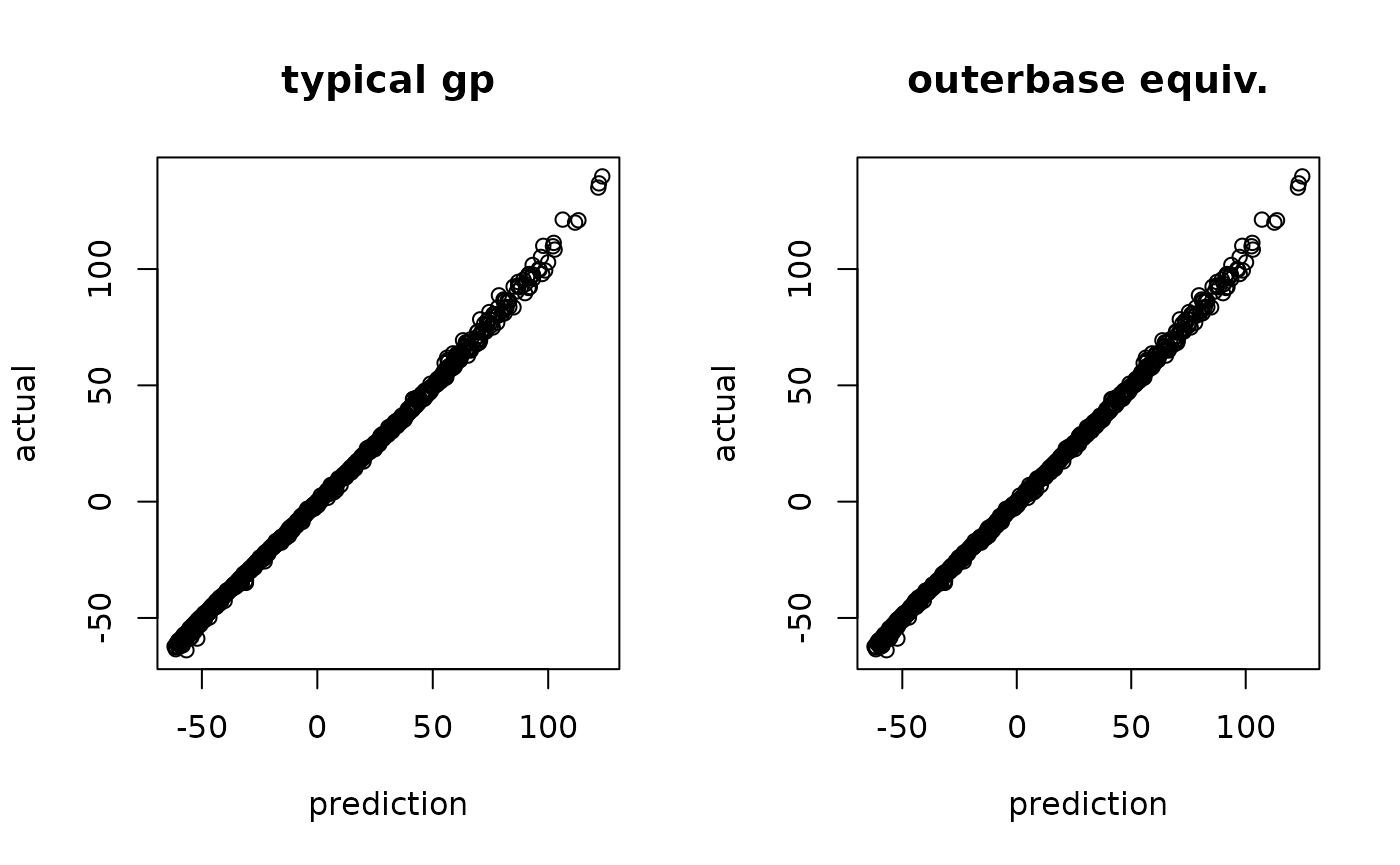
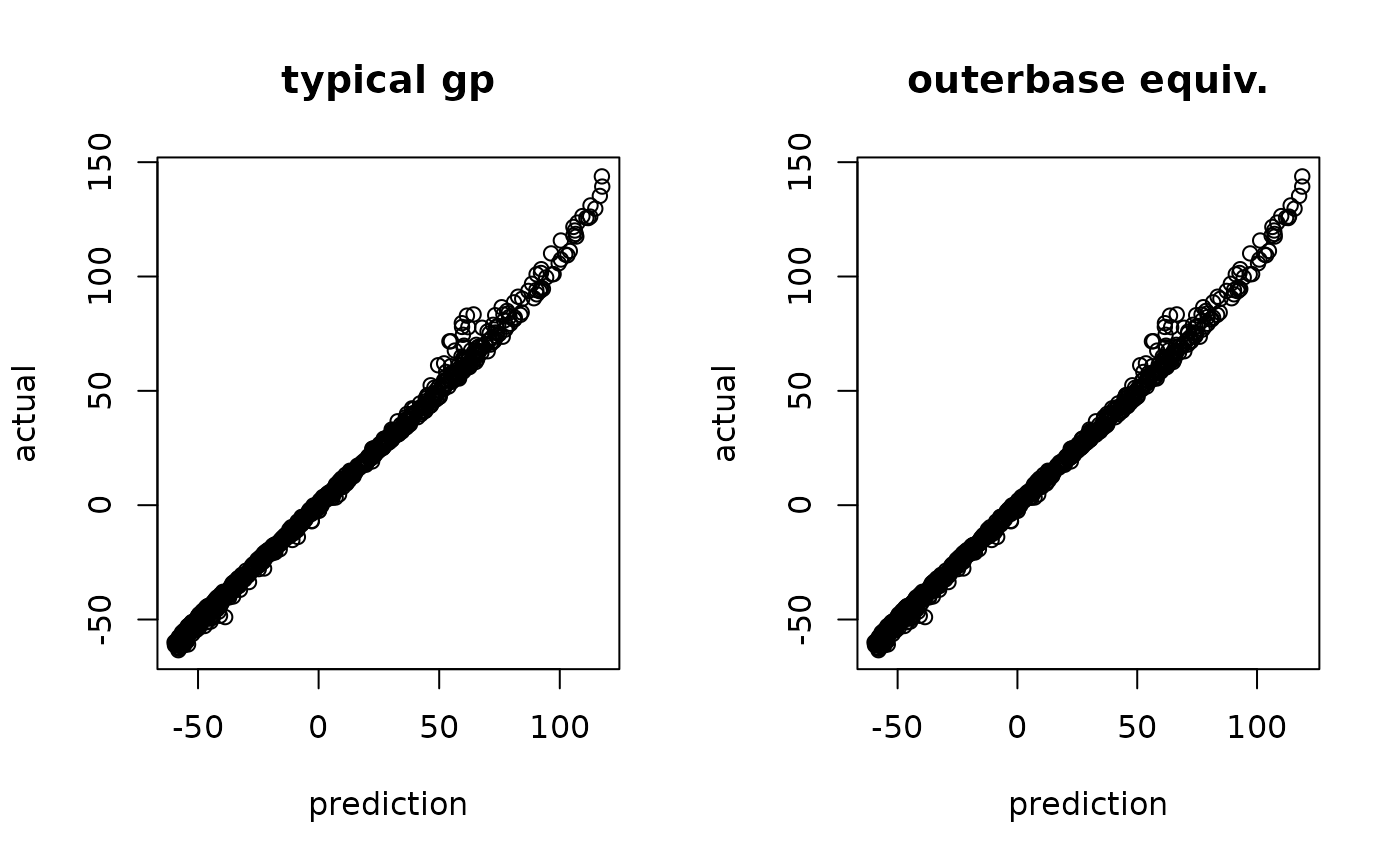
Built site for outerbase: 0.1.0@2f5dac3

diff --git a/articles/learning.html b/articles/learning.html
@@ -134,7 +134,7 @@
 <div class="section level2">
 <h2 id="lpdf-for-learning">lpdf for learning<a class="anchor" aria-label="anchor" href="#lpdf-for-learning"></a>
 </h2>
-<p>The core building block for outerbase learning is the base class <code><a href="../reference/lpdf.html">?lpdf</a></code>, log probability density functions. This base class forms the backbone behind learning using statistical models. Instances of this class allow us to optimize coefficients, infer on uncertainty and learn hyperparmeters of covariance functions.</p>
+<p>The core building block for outerbase learning is the base class <code><a href="../reference/lpdf.html">?lpdf</a></code>, log probability density functions. This base class forms the backbone behind learning using statistical models. Instances of this class allow us to optimize coefficients, infer on uncertainty and learn hyperparameters of covariance functions.</p>
 <p>A small dataset can illustrate (almost) all core concepts related to <code>lpdf</code>.</p>
 <div class="sourceCode" id="cb6"><pre class="downlit sourceCode r">
 <code class="sourceCode R"><span class="va">y</span> <span class="op">=</span> <span class="fu"><a href="../reference/obtest_borehole3d.html">obtest_borehole3d</a></span><span class="op">(</span><span class="va">x</span><span class="op">)</span></code></pre></div>
@@ -154,15 +154,15 @@
 <span class="va">coeff0</span> <span class="op">=</span> <span class="fu"><a href="https://rdrr.io/r/base/rep.html" class="external-link">rep</a></span><span class="op">(</span><span class="fl">0</span>,<span class="va">loglik</span><span class="op">$</span><span class="va">nterms</span><span class="op">)</span>
 <span class="va">loglik</span><span class="op">$</span><span class="fu">update</span><span class="op">(</span><span class="va">coeff0</span><span class="op">)</span> <span class="co"># update it to get gradients</span>
 <span class="va">loglik</span><span class="op">$</span><span class="va">val</span>
-<span class="co">#&gt; [1] -170.2484</span>
+<span class="co">#&gt; [1] -161.4159</span>
 <span class="fu"><a href="https://rdrr.io/r/utils/head.html" class="external-link">head</a></span><span class="op">(</span><span class="va">loglik</span><span class="op">$</span><span class="va">grad</span><span class="op">)</span> <span class="co"># dim 60 for number of coeffients</span>
-<span class="co">#&gt;              [,1]</span>
-<span class="co">#&gt; [1,] -0.004647154</span>
-<span class="co">#&gt; [2,] -0.508981362</span>
-<span class="co">#&gt; [3,] -0.089082185</span>
-<span class="co">#&gt; [4,]  3.973800267</span>
-<span class="co">#&gt; [5,]  0.169350840</span>
-<span class="co">#&gt; [6,] -0.929902659</span></code></pre></div>
+<span class="co">#&gt;            [,1]</span>
+<span class="co">#&gt; [1,]  0.1057980</span>
+<span class="co">#&gt; [2,] -1.2550244</span>
+<span class="co">#&gt; [3,] -1.0408845</span>
+<span class="co">#&gt; [4,]  2.9117202</span>
+<span class="co">#&gt; [5,]  0.3000319</span>
+<span class="co">#&gt; [6,] -0.2828231</span></code></pre></div>
 <p>A reasonable statistical model also needs prior on the coefficients. This tells us what distribution we expect on the coefficients.</p>
 <div class="sourceCode" id="cb10"><pre class="downlit sourceCode r">
 <code class="sourceCode R"><span class="va">logpr</span> <span class="op">=</span> <span class="fu">new</span><span class="op">(</span><span class="va">logpr_gauss</span>, <span class="va">om</span>, <span class="va">terms</span><span class="op">)</span></code></pre></div>
@@ -172,12 +172,12 @@
 <span class="va">para0</span> <span class="op">=</span> <span class="fu"><a href="../reference/getpara.html">getpara</a></span><span class="op">(</span><span class="va">logpdf</span><span class="op">)</span>
 <span class="va">para0</span>
 <span class="co">#&gt; noisescale coeffscale </span>
-<span class="co">#&gt;   2.834222   6.000000</span>
+<span class="co">#&gt;   3.021208   6.000000</span>
 <span class="va">para0</span><span class="op">[</span><span class="fl">2</span><span class="op">]</span> <span class="op">=</span> <span class="fl">4</span>
 <span class="va">logpdf</span><span class="op">$</span><span class="fu">updatepara</span><span class="op">(</span><span class="va">para0</span><span class="op">)</span>
 <span class="fu"><a href="../reference/getpara.html">getpara</a></span><span class="op">(</span><span class="va">logpdf</span><span class="op">)</span>
 <span class="co">#&gt; noisescale coeffscale </span>
-<span class="co">#&gt;   2.834222   4.000000</span></code></pre></div>
+<span class="co">#&gt;   3.021208   4.000000</span></code></pre></div>
 <p>The coefficients <code>coeff</code> are considered ancillary parameters that need to be optimized out (or something more sophisticated, hint on current research). For this class, it is easiest to do this via <code>lpdf$optnewton</code>, which takes a single Newton step to optimize the coefficients.</p>
 <div class="sourceCode" id="cb12"><pre class="downlit sourceCode r">
 <code class="sourceCode R"><span class="va">logpdf</span><span class="op">$</span><span class="fu">optnewton</span><span class="op">(</span><span class="op">)</span></code></pre></div>
@@ -207,17 +207,17 @@
 <div class="sourceCode" id="cb15"><pre class="downlit sourceCode r">
 <code class="sourceCode R"><span class="va">logpdf</span><span class="op">$</span><span class="fu">optnewton</span><span class="op">(</span><span class="op">)</span>
 <span class="va">logpdf</span><span class="op">$</span><span class="va">gradhyp</span>    <span class="co"># dim 6 for all hyperparameter</span>
-<span class="co">#&gt;           [,1]</span>
-<span class="co">#&gt; [1,] 0.4562852</span>
-<span class="co">#&gt; [2,] 0.2498328</span>
-<span class="co">#&gt; [3,] 8.6879183</span>
-<span class="co">#&gt; [4,] 0.9290032</span>
-<span class="co">#&gt; [5,] 9.2288596</span>
-<span class="co">#&gt; [6,] 0.9520862</span>
+<span class="co">#&gt;            [,1]</span>
+<span class="co">#&gt; [1,] -1.4809189</span>
+<span class="co">#&gt; [2,]  0.1827801</span>
+<span class="co">#&gt; [3,]  7.4764545</span>
+<span class="co">#&gt; [4,]  0.7704068</span>
+<span class="co">#&gt; [5,]  7.2081800</span>
+<span class="co">#&gt; [6,]  0.7620623</span>
 <span class="va">logpdf</span><span class="op">$</span><span class="va">gradpara</span>   <span class="co"># dim 2 since 2 parameters</span>
 <span class="co">#&gt;            [,1]</span>
-<span class="co">#&gt; [1,] -17.542917</span>
-<span class="co">#&gt; [2,]  -4.492751</span></code></pre></div>
+<span class="co">#&gt; [1,] -18.507744</span>
+<span class="co">#&gt; [2,]  -2.652426</span></code></pre></div>
 <p>This allows us to use custom functions to learn these hyperparameters to give maximum predictive power. The goal right now is a single point estimate of these hyperparameters. One has to be very careful to keep these in good ranges, and the call below will make sure to return <code>-inf</code> if there is a problem with the chosen hyperparameters.</p>
 <div class="sourceCode" id="cb16"><pre class="downlit sourceCode r">
 <code class="sourceCode R"><span class="va">totobj</span> <span class="op">=</span> <span class="kw">function</span><span class="op">(</span><span class="va">parlist</span><span class="op">)</span> <span class="op">{</span> <span class="co">#my optimization function for tuning</span>
@@ -239,69 +239,67 @@
 <code class="sourceCode R"><span class="va">parlist</span> <span class="op">=</span> <span class="fu"><a href="https://rdrr.io/r/base/list.html" class="external-link">list</a></span><span class="op">(</span>para <span class="op">=</span> <span class="fu"><a href="../reference/getpara.html">getpara</a></span><span class="op">(</span><span class="va">logpdf</span><span class="op">)</span>, hyp <span class="op">=</span> <span class="fu"><a href="../reference/gethyp.html">gethyp</a></span><span class="op">(</span><span class="va">om</span><span class="op">)</span><span class="op">)</span>
 <span class="fu">totobj</span><span class="op">(</span><span class="va">parlist</span><span class="op">)</span>
 <span class="co">#&gt; $val</span>
-<span class="co">#&gt; [1] 81.64993</span>
+<span class="co">#&gt; [1] 85.49083</span>
 <span class="co">#&gt; </span>
 <span class="co">#&gt; $gval</span>
 <span class="co">#&gt; $gval$para</span>
 <span class="co">#&gt;           [,1]</span>
-<span class="co">#&gt; [1,] 17.542917</span>
-<span class="co">#&gt; [2,]  3.992751</span>
+<span class="co">#&gt; [1,] 18.507744</span>
+<span class="co">#&gt; [2,]  2.152426</span>
 <span class="co">#&gt; </span>
 <span class="co">#&gt; $gval$hyp</span>
 <span class="co">#&gt;             [,1]</span>
-<span class="co">#&gt; [1,]  -5.8134281</span>
-<span class="co">#&gt; [2,]  -0.2498328</span>
-<span class="co">#&gt; [3,] -14.0450612</span>
-<span class="co">#&gt; [4,]  -0.9290032</span>
-<span class="co">#&gt; [5,] -14.5860024</span>
-<span class="co">#&gt; [6,]  -0.9520862</span>
+<span class="co">#&gt; [1,]  -3.8762240</span>
+<span class="co">#&gt; [2,]  -0.1827801</span>
+<span class="co">#&gt; [3,] -12.8335974</span>
+<span class="co">#&gt; [4,]  -0.7704068</span>
+<span class="co">#&gt; [5,] -12.5653229</span>
+<span class="co">#&gt; [6,]  -0.7620623</span>
 <span class="va">opth</span> <span class="op">=</span> <span class="fu"><a href="../reference/BFGS_std.html">BFGS_std</a></span><span class="op">(</span><span class="va">totobj</span>, <span class="va">parlist</span>, verbose<span class="op">=</span><span class="fl">3</span><span class="op">)</span> <span class="co">#</span>
 <span class="co">#&gt; </span>
 <span class="co">#&gt; ########started BFGS#######</span>
 <span class="co">#&gt;  iter.no obj.value wolfe.cond.1 wolfe.cond.2 learning.rate</span>
-<span class="co">#&gt;        0   81.6499           NA           NA           0.1</span>
+<span class="co">#&gt;        0   85.4908           NA           NA           0.1</span>
 <span class="co">#&gt;  iter.no obj.value wolfe.cond.1 wolfe.cond.2 learning.rate</span>
-<span class="co">#&gt;        1   78.3075     -3.34183     -44.3919           0.1</span>
+<span class="co">#&gt;        1   82.7728     -2.71749     -44.7792           0.1</span>
 <span class="co">#&gt;  iter.no obj.value wolfe.cond.1 wolfe.cond.2 learning.rate</span>
-<span class="co">#&gt;        2   72.9727     -5.33423    -0.524446       0.50357</span>
+<span class="co">#&gt;        2   77.9237     -4.84862    -0.251704       0.50357</span>
 <span class="co">#&gt;  iter.no obj.value wolfe.cond.1 wolfe.cond.2 learning.rate</span>
-<span class="co">#&gt;        3   57.0646     -15.9058     -26.1643      0.539329</span>
+<span class="co">#&gt;        3   60.7591      -17.162     -30.3959      0.539329</span>
 <span class="co">#&gt;  iter.no obj.value wolfe.cond.1 wolfe.cond.2 learning.rate</span>
-<span class="co">#&gt;        4   52.2676     -4.79641     -2.35795      0.573679</span>
+<span class="co">#&gt;        4   54.9409     -5.81753     -2.64998      0.573679</span>
 <span class="co">#&gt;  iter.no obj.value wolfe.cond.1 wolfe.cond.2 learning.rate</span>
-<span class="co">#&gt;        5   42.6163     -9.64998     -10.8916      0.606459</span>
+<span class="co">#&gt;        5   43.8348     -11.1047     -8.10027      0.606459</span>
 <span class="co">#&gt;  iter.no obj.value wolfe.cond.1 wolfe.cond.2 learning.rate</span>
-<span class="co">#&gt;        6   34.9075     -7.70784     -6.58303      0.637561</span>
+<span class="co">#&gt;        6   34.3764     -9.45716     -7.20791      0.637561</span>
 <span class="co">#&gt;  iter.no obj.value wolfe.cond.1 wolfe.cond.2 learning.rate</span>
-<span class="co">#&gt;        7   28.8161     -6.09056     -6.00848      0.666913</span>
+<span class="co">#&gt;        7   29.6759     -4.69979     -7.52725      0.666913</span>
 <span class="co">#&gt;  iter.no obj.value wolfe.cond.1 wolfe.cond.2 learning.rate</span>
-<span class="co">#&gt;        8   27.1001     -1.71564     -2.30853      0.694484</span>
-<span class="co">#&gt;  iter.no obj.value wolfe.cond.1 wolfe.cond.2 learning.rate</span>
-<span class="co">#&gt;        9    26.819    -0.281026     -1.37303      0.720271</span>
-<span class="co">#&gt; num iter: 10  obj start: 81.64993  obj end: 26.70068</span>
-<span class="co">#&gt; final learning rate: 0.7442976</span>
-<span class="co">#&gt; approx lower bound (not achieved): 26.4558</span>
+<span class="co">#&gt;        8   28.5884     -1.08725     -4.66552      0.347242</span>
+<span class="co">#&gt; num iter: 9  obj start: 85.49083  obj end: 28.43117</span>
+<span class="co">#&gt; final learning rate: 0.3859839</span>
+<span class="co">#&gt; approx lower bound (not achieved): 27.91182</span>
 <span class="co">#&gt; #########finished BFGS########</span></code></pre></div>
 <p>Then we just have to update out parameters and re-optimize, and we can check that we are at least must closer to stationary point.</p>
 <div class="sourceCode" id="cb18"><pre class="downlit sourceCode r">
 <code class="sourceCode R"><span class="fu">totobj</span><span class="op">(</span><span class="va">opth</span><span class="op">$</span><span class="va">par</span><span class="op">)</span>
 <span class="co">#&gt; $val</span>
-<span class="co">#&gt; [1] 26.70068</span>
+<span class="co">#&gt; [1] 28.43117</span>
 <span class="co">#&gt; </span>
 <span class="co">#&gt; $gval</span>
 <span class="co">#&gt; $gval$para</span>
-<span class="co">#&gt;            [,1]</span>
-<span class="co">#&gt; [1,] -0.4092419</span>
-<span class="co">#&gt; [2,] -0.7965177</span>
+<span class="co">#&gt;             [,1]</span>
+<span class="co">#&gt; [1,] -0.07176864</span>
+<span class="co">#&gt; [2,] -1.72703247</span>
 <span class="co">#&gt; </span>
 <span class="co">#&gt; $gval$hyp</span>
-<span class="co">#&gt;              [,1]</span>
-<span class="co">#&gt; [1,] -0.897100316</span>
-<span class="co">#&gt; [2,]  0.095586257</span>
-<span class="co">#&gt; [3,] -1.556509064</span>
-<span class="co">#&gt; [4,]  0.114060485</span>
-<span class="co">#&gt; [5,] -1.097425114</span>
-<span class="co">#&gt; [6,]  0.008575139</span></code></pre></div>
+<span class="co">#&gt;            [,1]</span>
+<span class="co">#&gt; [1,]  0.9124721</span>
+<span class="co">#&gt; [2,] -2.0994786</span>
+<span class="co">#&gt; [3,]  1.0010214</span>
+<span class="co">#&gt; [4,] -1.6479843</span>
+<span class="co">#&gt; [5,]  1.6461405</span>
+<span class="co">#&gt; [6,] -1.8202308</span></code></pre></div>
 <p>These steps can all be nicely wrapped up in another function <code><a href="../reference/BFGS_lpdf.html">?BFGS_lpdf</a></code>, which is a simpler call with the same result. Note because of some things not fully understood, these numbers will not match <em>exactly</em> above, but they will be quite close and functionally the same.</p>
 <div class="sourceCode" id="cb19"><pre class="downlit sourceCode r">
 <code class="sourceCode R"><span class="va">opth</span> <span class="op">=</span> <span class="fu"><a href="../reference/BFGS_lpdf.html">BFGS_lpdf</a></span><span class="op">(</span><span class="va">om</span>, <span class="va">logpdf</span>, 
@@ -310,28 +308,26 @@
 <span class="co">#&gt; </span>
 <span class="co">#&gt; ########started BFGS#######</span>
 <span class="co">#&gt;  iter.no obj.value wolfe.cond.1 wolfe.cond.2 learning.rate</span>
-<span class="co">#&gt;        0   81.5978           NA           NA           0.1</span>
+<span class="co">#&gt;        0   85.4908           NA           NA           0.1</span>
 <span class="co">#&gt;  iter.no obj.value wolfe.cond.1 wolfe.cond.2 learning.rate</span>
-<span class="co">#&gt;        1   78.3108      -3.2864     -44.8719           0.1</span>
+<span class="co">#&gt;        1   82.7728     -2.71749     -44.7792           0.1</span>
 <span class="co">#&gt;  iter.no obj.value wolfe.cond.1 wolfe.cond.2 learning.rate</span>
-<span class="co">#&gt;        2   72.9981     -5.31216    -0.508199       0.50357</span>
+<span class="co">#&gt;        2   77.9237     -4.84862    -0.251704       0.50357</span>
 <span class="co">#&gt;  iter.no obj.value wolfe.cond.1 wolfe.cond.2 learning.rate</span>
-<span class="co">#&gt;        3   57.0817     -15.9141     -26.1969      0.539329</span>
+<span class="co">#&gt;        3   60.7591      -17.162     -30.3959      0.539329</span>
 <span class="co">#&gt;  iter.no obj.value wolfe.cond.1 wolfe.cond.2 learning.rate</span>
-<span class="co">#&gt;        4    52.287     -4.79415     -2.36353      0.573679</span>
+<span class="co">#&gt;        4   54.9409     -5.81753     -2.64998      0.573679</span>
 <span class="co">#&gt;  iter.no obj.value wolfe.cond.1 wolfe.cond.2 learning.rate</span>
-<span class="co">#&gt;        5    42.674     -9.61167     -10.9516      0.606459</span>
+<span class="co">#&gt;        5   43.8348     -11.1047     -8.10027      0.606459</span>
 <span class="co">#&gt;  iter.no obj.value wolfe.cond.1 wolfe.cond.2 learning.rate</span>
-<span class="co">#&gt;        6   35.0329     -7.64006      -6.3672      0.637561</span>
+<span class="co">#&gt;        6   34.3764     -9.45716     -7.20791      0.637561</span>
 <span class="co">#&gt;  iter.no obj.value wolfe.cond.1 wolfe.cond.2 learning.rate</span>
-<span class="co">#&gt;        7   28.8592     -6.17288     -6.04813      0.666913</span>
+<span class="co">#&gt;        7   29.6759     -4.69979     -7.52725      0.666913</span>
 <span class="co">#&gt;  iter.no obj.value wolfe.cond.1 wolfe.cond.2 learning.rate</span>
-<span class="co">#&gt;        8    27.107     -1.75189     -2.25951      0.694484</span>
-<span class="co">#&gt;  iter.no obj.value wolfe.cond.1 wolfe.cond.2 learning.rate</span>
-<span class="co">#&gt;        9     26.82    -0.286878     -1.25263      0.720271</span>
-<span class="co">#&gt; num iter: 10  obj start: 81.59782  obj end: 26.7018</span>
-<span class="co">#&gt; final learning rate: 0.7442976</span>
-<span class="co">#&gt; approx lower bound (not achieved): 26.44683</span>
+<span class="co">#&gt;        8   28.5884     -1.08725     -4.66552      0.347242</span>
+<span class="co">#&gt; num iter: 9  obj start: 85.49083  obj end: 28.43117</span>
+<span class="co">#&gt; final learning rate: 0.3859839</span>
+<span class="co">#&gt; approx lower bound (not achieved): 27.91182</span>
 <span class="co">#&gt; #########finished BFGS########</span></code></pre></div>
 <p>The revised predictions are then built after hyperparameter optimization where we find improved predictive accuracy in nearly every category. Here we can see a much better alignment between predictions and actual alongside a better plot of standardized residuals (more like a standard normal distribution).</p>
 <div class="sourceCode" id="cb20"><pre class="downlit sourceCode r">

diff --git a/reference/outerbase-package.html b/reference/outerbase-package.html
@@ -1,11 +1,11 @@
 <!DOCTYPE html>
 <!-- Generated by pkgdown: do not edit by hand --><html lang="en"><head><meta http-equiv="Content-Type" content="text/html; charset=UTF-8"><meta charset="utf-8"><meta http-equiv="X-UA-Compatible" content="IE=edge"><meta name="viewport" content="width=device-width, initial-scale=1, shrink-to-fit=no"><meta name="description" content="High-dimensional regression using outer product models. Research on the methods is currently under investigation and published resources will be posted as they are available. As the method is new, the website is the best resource for understanding the principals. Some of the core ideas are based on Plumlee and coauthors' work on analysis of grid-structured experiments described in Plumlee (2014) doi:10.1080/01621459.2014.900250
  and Plumlee, Erickson, Ankenman, Lawrence (2021) doi:10.1093/biomet/asaa084
-. Some additional textbooks for additional information on Gaussian processesare Rasmussen and Williams (2005) doi:10.7551/mitpress/3206.001.0001
+. Some additional textbooks for additional information on Gaussian processes are Rasmussen and Williams (2005) doi:10.7551/mitpress/3206.001.0001
  and Gramacy (2022) doi:10.1201/9780367815493
 ."><title>outerbase — outerbase-package • outerbase</title><script src="../deps/jquery-3.6.0/jquery-3.6.0.min.js"></script><meta name="viewport" content="width=device-width, initial-scale=1, shrink-to-fit=no"><link href="../deps/bootstrap-5.1.0/bootstrap.min.css" rel="stylesheet"><script src="../deps/bootstrap-5.1.0/bootstrap.bundle.min.js"></script><link href="../deps/_Source%20Sans%20Pro-0.4.1/font.css" rel="stylesheet"><link href="../deps/_Source%20Code%20Pro-0.4.1/font.css" rel="stylesheet"><!-- Font Awesome icons --><link rel="stylesheet" href="https://cdnjs.cloudflare.com/ajax/libs/font-awesome/5.12.1/css/all.min.css" integrity="sha256-mmgLkCYLUQbXn0B1SRqzHar6dCnv9oZFPEC1g1cwlkk=" crossorigin="anonymous"><link rel="stylesheet" href="https://cdnjs.cloudflare.com/ajax/libs/font-awesome/5.12.1/css/v4-shims.min.css" integrity="sha256-wZjR52fzng1pJHwx4aV2AO3yyTOXrcDW7jBpJtTwVxw=" crossorigin="anonymous"><!-- bootstrap-toc --><script src="https://cdn.rawgit.com/afeld/bootstrap-toc/v1.0.1/dist/bootstrap-toc.min.js"></script><!-- headroom.js --><script src="https://cdnjs.cloudflare.com/ajax/libs/headroom/0.11.0/headroom.min.js" integrity="sha256-AsUX4SJE1+yuDu5+mAVzJbuYNPHj/WroHuZ8Ir/CkE0=" crossorigin="anonymous"></script><script src="https://cdnjs.cloudflare.com/ajax/libs/headroom/0.11.0/jQuery.headroom.min.js" integrity="sha256-ZX/yNShbjqsohH1k95liqY9Gd8uOiE1S4vZc+9KQ1K4=" crossorigin="anonymous"></script><!-- clipboard.js --><script src="https://cdnjs.cloudflare.com/ajax/libs/clipboard.js/2.0.6/clipboard.min.js" integrity="sha256-inc5kl9MA1hkeYUt+EC3BhlIgyp/2jDIyBLS6k3UxPI=" crossorigin="anonymous"></script><!-- search --><script src="https://cdnjs.cloudflare.com/ajax/libs/fuse.js/6.4.6/fuse.js" integrity="sha512-zv6Ywkjyktsohkbp9bb45V6tEMoWhzFzXis+LrMehmJZZSys19Yxf1dopHx7WzIKxr5tK2dVcYmaCk2uqdjF4A==" crossorigin="anonymous"></script><script src="https://cdnjs.cloudflare.com/ajax/libs/autocomplete.js/0.38.0/autocomplete.jquery.min.js" integrity="sha512-GU9ayf+66Xx2TmpxqJpliWbT5PiGYxpaG8rfnBEk1LL8l1KGkRShhngwdXK1UgqhAzWpZHSiYPc09/NwDQIGyg==" crossorigin="anonymous"></script><script src="https://cdnjs.cloudflare.com/ajax/libs/mark.js/8.11.1/mark.min.js" integrity="sha512-5CYOlHXGh6QpOFA/TeTylKLWfB3ftPsde7AnmhuitiTX4K5SqCLBeKro6sPS8ilsz1Q4NRx3v8Ko2IBiszzdww==" crossorigin="anonymous"></script><!-- pkgdown --><script src="../pkgdown.js"></script><meta property="og:title" content="outerbase — outerbase-package"><meta property="og:description" content="High-dimensional regression using outer product models. Research on the methods is currently under investigation and published resources will be posted as they are available. As the method is new, the website is the best resource for understanding the principals. Some of the core ideas are based on Plumlee and coauthors' work on analysis of grid-structured experiments described in Plumlee (2014) doi:10.1080/01621459.2014.900250
  and Plumlee, Erickson, Ankenman, Lawrence (2021) doi:10.1093/biomet/asaa084
-. Some additional textbooks for additional information on Gaussian processesare Rasmussen and Williams (2005) doi:10.7551/mitpress/3206.001.0001
+. Some additional textbooks for additional information on Gaussian processes are Rasmussen and Williams (2005) doi:10.7551/mitpress/3206.001.0001
  and Gramacy (2022) doi:10.1201/9780367815493
 ."><!-- mathjax --><script src="https://cdnjs.cloudflare.com/ajax/libs/mathjax/2.7.5/MathJax.js" integrity="sha256-nvJJv9wWKEm88qvoQl9ekL2J+k/RWIsaSScxxlsrv8k=" crossorigin="anonymous"></script><script src="https://cdnjs.cloudflare.com/ajax/libs/mathjax/2.7.5/config/TeX-AMS-MML_HTMLorMML.js" integrity="sha256-84DKXVJXs0/F8OTMzX4UR909+jtl4G7SPypPavF+GfA=" crossorigin="anonymous"></script><!--[if lt IE 9]>
 <script src="https://oss.maxcdn.com/html5shiv/3.7.3/html5shiv.min.js"></script>
@@ -67,7 +67,7 @@
     <div class="ref-description section level2">
     <p>High-dimensional regression using outer product models. Research on the methods is currently under investigation and published resources will be posted as they are available. As the method is new, the website is the best resource for understanding the principals. Some of the core ideas are based on Plumlee and coauthors' work on analysis of grid-structured experiments described in Plumlee (2014) <a href="https://doi.org/10.1080/01621459.2014.900250" class="external-link">doi:10.1080/01621459.2014.900250</a>
  and Plumlee, Erickson, Ankenman, Lawrence (2021) <a href="https://doi.org/10.1093/biomet/asaa084" class="external-link">doi:10.1093/biomet/asaa084</a>
-. Some additional textbooks for additional information on Gaussian processesare Rasmussen and Williams (2005) <a href="https://doi.org/10.7551/mitpress/3206.001.0001" class="external-link">doi:10.7551/mitpress/3206.001.0001</a>
+. Some additional textbooks for additional information on Gaussian processes are Rasmussen and Williams (2005) <a href="https://doi.org/10.7551/mitpress/3206.001.0001" class="external-link">doi:10.7551/mitpress/3206.001.0001</a>
  and Gramacy (2022) <a href="https://doi.org/10.1201/9780367815493" class="external-link">doi:10.1201/9780367815493</a>
 .</p>
     </div>

diff --git a/articles/basebasics.html b/articles/basebasics.html
@@ -234,10 +234,10 @@
 <span class="co">#&gt;      [,1] [,2] [,3]</span>
 <span class="co">#&gt; [1,]    0    0    0</span>
 <span class="co">#&gt; [2,]    1    0    0</span>
-<span class="co">#&gt; [3,]    0    1    0</span>
-<span class="co">#&gt; [4,]    0    0    1</span>
-<span class="co">#&gt; [5,]    0    1    1</span>
-<span class="co">#&gt; [6,]    1    0    1</span></code></pre></div>
+<span class="co">#&gt; [3,]    0    0    1</span>
+<span class="co">#&gt; [4,]    0    1    0</span>
+<span class="co">#&gt; [5,]    1    0    1</span>
+<span class="co">#&gt; [6,]    1    1    0</span></code></pre></div>
 <p><code>outermod$getvar</code> returns the vector of variances associated with these coefficients at these <code>terms</code>.</p>
 <div class="sourceCode" id="cb20"><pre class="downlit sourceCode r">
 <code class="sourceCode R"><span class="va">covcoeff</span> <span class="op">=</span> <span class="fu"><a href="https://rdrr.io/r/base/vector.html" class="external-link">as.vector</a></span><span class="op">(</span><span class="va">om</span><span class="op">$</span><span class="fu">getvar</span><span class="op">(</span><span class="va">terms</span><span class="op">)</span><span class="op">)</span></code></pre></div>
@@ -251,12 +251,12 @@
   <span class="va">ob</span><span class="op">$</span><span class="fu">getbase</span><span class="op">(</span><span class="fl">3</span><span class="op">)</span><span class="op">[</span>,<span class="va">terms</span><span class="op">[</span><span class="va">termno</span>,<span class="fl">3</span><span class="op">]</span><span class="op">+</span><span class="fl">1</span><span class="op">]</span>
 
 <span class="fu"><a href="https://rdrr.io/r/base/cbind.html" class="external-link">cbind</a></span><span class="op">(</span><span class="va">basevec</span><span class="op">[</span><span class="fl">1</span><span class="op">:</span><span class="fl">5</span><span class="op">]</span>,<span class="va">basismat</span><span class="op">[</span><span class="fl">1</span><span class="op">:</span><span class="fl">5</span>,<span class="fl">5</span><span class="op">]</span><span class="op">)</span> <span class="co"># expect equal</span>
-<span class="co">#&gt;             [,1]        [,2]</span>
-<span class="co">#&gt; [1,] -0.77547521 -0.77547521</span>
-<span class="co">#&gt; [2,] -0.55557290 -0.55557290</span>
-<span class="co">#&gt; [3,]  0.02152427  0.02152427</span>
-<span class="co">#&gt; [4,]  1.51427430  1.51427430</span>
-<span class="co">#&gt; [5,]  0.22592522  0.22592522</span></code></pre></div>
+<span class="co">#&gt;            [,1]       [,2]</span>
+<span class="co">#&gt; [1,] -1.4639107 -1.4639107</span>
+<span class="co">#&gt; [2,]  2.2470844  2.2470844</span>
+<span class="co">#&gt; [3,]  0.6698860  0.6698860</span>
+<span class="co">#&gt; [4,] -1.7842495 -1.7842495</span>
+<span class="co">#&gt; [5,] -0.5683441 -0.5683441</span></code></pre></div>
 </div>
 </div>
 <div class="section level2">
@@ -269,18 +269,18 @@
 
 <span class="fu"><a href="https://rdrr.io/r/base/print.html" class="external-link">print</a></span><span class="op">(</span><span class="fu"><a href="https://rdrr.io/r/base/Round.html" class="external-link">round</a></span><span class="op">(</span><span class="va">cormattot</span><span class="op">[</span><span class="fl">1</span><span class="op">:</span><span class="fl">5</span>,<span class="fl">1</span><span class="op">:</span><span class="fl">5</span><span class="op">]</span>,<span class="fl">3</span><span class="op">)</span><span class="op">)</span> <span class="co"># typical gp</span>
 <span class="co">#&gt;       [,1]  [,2]  [,3]  [,4]  [,5]</span>
-<span class="co">#&gt; [1,] 1.000 0.561 0.825 0.677 0.900</span>
-<span class="co">#&gt; [2,] 0.561 1.000 0.834 0.538 0.602</span>
-<span class="co">#&gt; [3,] 0.825 0.834 1.000 0.793 0.895</span>
-<span class="co">#&gt; [4,] 0.677 0.538 0.793 1.000 0.878</span>
-<span class="co">#&gt; [5,] 0.900 0.602 0.895 0.878 1.000</span>
+<span class="co">#&gt; [1,] 1.000 0.575 0.853 0.935 0.926</span>
+<span class="co">#&gt; [2,] 0.575 1.000 0.830 0.431 0.613</span>
+<span class="co">#&gt; [3,] 0.853 0.830 1.000 0.729 0.913</span>
+<span class="co">#&gt; [4,] 0.935 0.431 0.729 1.000 0.899</span>
+<span class="co">#&gt; [5,] 0.926 0.613 0.913 0.899 1.000</span>
 <span class="fu"><a href="https://rdrr.io/r/base/print.html" class="external-link">print</a></span><span class="op">(</span><span class="fu"><a href="https://rdrr.io/r/base/Round.html" class="external-link">round</a></span><span class="op">(</span><span class="va">cormatob</span><span class="op">[</span><span class="fl">1</span><span class="op">:</span><span class="fl">5</span>,<span class="fl">1</span><span class="op">:</span><span class="fl">5</span><span class="op">]</span>,<span class="fl">3</span><span class="op">)</span><span class="op">)</span> <span class="co"># outerbase</span>
 <span class="co">#&gt;       [,1]  [,2]  [,3]  [,4]  [,5]</span>
-<span class="co">#&gt; [1,] 1.000 0.561 0.825 0.677 0.900</span>
-<span class="co">#&gt; [2,] 0.561 1.000 0.834 0.538 0.602</span>
-<span class="co">#&gt; [3,] 0.825 0.834 1.000 0.793 0.895</span>
-<span class="co">#&gt; [4,] 0.677 0.538 0.793 1.000 0.878</span>
-<span class="co">#&gt; [5,] 0.900 0.602 0.895 0.878 1.000</span></code></pre></div>
+<span class="co">#&gt; [1,] 1.000 0.575 0.853 0.935 0.927</span>
+<span class="co">#&gt; [2,] 0.575 1.000 0.830 0.431 0.613</span>
+<span class="co">#&gt; [3,] 0.853 0.830 1.000 0.729 0.913</span>
+<span class="co">#&gt; [4,] 0.935 0.431 0.729 1.000 0.899</span>
+<span class="co">#&gt; [5,] 0.927 0.613 0.913 0.899 1.000</span></code></pre></div>
 <p>They means that we can leverage <a href="https://en.wikipedia.org/wiki/Bayesian_linear_regression" class="external-link">Bayesian linear regression</a> to do prediction. This will require assuming that there is some <code>noisevar</code>, which is also called the nugget in the Gaussian process literature.</p>
 <div class="sourceCode" id="cb23"><pre class="downlit sourceCode r">
 <code class="sourceCode R"><span class="va">noisevar</span> <span class="op">=</span> <span class="fl">10</span><span class="op">^</span><span class="op">(</span><span class="op">-</span><span class="fl">4</span><span class="op">)</span>

diff --git a/index.html b/index.html
@@ -5,7 +5,7 @@
 <meta charset="utf-8">
 <meta http-equiv="X-UA-Compatible" content="IE=edge">
 <meta name="viewport" content="width=device-width, initial-scale=1, shrink-to-fit=no">
-<meta name="description" content="High-dimensional regression using outer product models.  Research on the methods is currently under investigation and published resources will be posted as they are available.  As the method is new, the website is the best resource for understanding the principals. Some of the core ideas are based on Plumlee and coauthors' work on analysis of grid-structured  experiments described in Plumlee (2014) &lt;doi:10.1080/01621459.2014.900250&gt; and  Plumlee, Erickson, Ankenman, Lawrence (2021) &lt;doi:10.1093/biomet/asaa084&gt;.  Some additional textbooks for additional information on Gaussian processesare Rasmussen and Williams (2005) &lt;doi:10.7551/mitpress/3206.001.0001&gt; and  Gramacy (2022) &lt;doi:10.1201/9780367815493&gt;.">
+<meta name="description" content="High-dimensional regression using outer product models.  Research on the methods is currently under investigation and published resources will be posted as they are available.  As the method is new, the website is the best resource for understanding the principals. Some of the core ideas are based on Plumlee and coauthors' work on analysis of grid-structured  experiments described in Plumlee (2014) &lt;doi:10.1080/01621459.2014.900250&gt; and  Plumlee, Erickson, Ankenman, Lawrence (2021) &lt;doi:10.1093/biomet/asaa084&gt;.  Some additional textbooks for additional information on Gaussian processes are Rasmussen and Williams (2005) &lt;doi:10.7551/mitpress/3206.001.0001&gt; and  Gramacy (2022) &lt;doi:10.1201/9780367815493&gt;.">
 <title>Outer Product Regression • outerbase</title>
 <script src="deps/jquery-3.6.0/jquery-3.6.0.min.js"></script><meta name="viewport" content="width=device-width, initial-scale=1, shrink-to-fit=no">
 <link href="deps/bootstrap-5.1.0/bootstrap.min.css" rel="stylesheet">
@@ -14,7 +14,7 @@
 <!-- Font Awesome icons --><link rel="stylesheet" href="https://cdnjs.cloudflare.com/ajax/libs/font-awesome/5.12.1/css/all.min.css" integrity="sha256-mmgLkCYLUQbXn0B1SRqzHar6dCnv9oZFPEC1g1cwlkk=" crossorigin="anonymous">
 <link rel="stylesheet" href="https://cdnjs.cloudflare.com/ajax/libs/font-awesome/5.12.1/css/v4-shims.min.css" integrity="sha256-wZjR52fzng1pJHwx4aV2AO3yyTOXrcDW7jBpJtTwVxw=" crossorigin="anonymous">
 <!-- bootstrap-toc --><script src="https://cdn.rawgit.com/afeld/bootstrap-toc/v1.0.1/dist/bootstrap-toc.min.js"></script><!-- headroom.js --><script src="https://cdnjs.cloudflare.com/ajax/libs/headroom/0.11.0/headroom.min.js" integrity="sha256-AsUX4SJE1+yuDu5+mAVzJbuYNPHj/WroHuZ8Ir/CkE0=" crossorigin="anonymous"></script><script src="https://cdnjs.cloudflare.com/ajax/libs/headroom/0.11.0/jQuery.headroom.min.js" integrity="sha256-ZX/yNShbjqsohH1k95liqY9Gd8uOiE1S4vZc+9KQ1K4=" crossorigin="anonymous"></script><!-- clipboard.js --><script src="https://cdnjs.cloudflare.com/ajax/libs/clipboard.js/2.0.6/clipboard.min.js" integrity="sha256-inc5kl9MA1hkeYUt+EC3BhlIgyp/2jDIyBLS6k3UxPI=" crossorigin="anonymous"></script><!-- search --><script src="https://cdnjs.cloudflare.com/ajax/libs/fuse.js/6.4.6/fuse.js" integrity="sha512-zv6Ywkjyktsohkbp9bb45V6tEMoWhzFzXis+LrMehmJZZSys19Yxf1dopHx7WzIKxr5tK2dVcYmaCk2uqdjF4A==" crossorigin="anonymous"></script><script src="https://cdnjs.cloudflare.com/ajax/libs/autocomplete.js/0.38.0/autocomplete.jquery.min.js" integrity="sha512-GU9ayf+66Xx2TmpxqJpliWbT5PiGYxpaG8rfnBEk1LL8l1KGkRShhngwdXK1UgqhAzWpZHSiYPc09/NwDQIGyg==" crossorigin="anonymous"></script><script src="https://cdnjs.cloudflare.com/ajax/libs/mark.js/8.11.1/mark.min.js" integrity="sha512-5CYOlHXGh6QpOFA/TeTylKLWfB3ftPsde7AnmhuitiTX4K5SqCLBeKro6sPS8ilsz1Q4NRx3v8Ko2IBiszzdww==" crossorigin="anonymous"></script><!-- pkgdown --><script src="pkgdown.js"></script><meta property="og:title" content="Outer Product Regression">
-<meta property="og:description" content="High-dimensional regression using outer product models.  Research on the methods is currently under investigation and published resources will be posted as they are available.  As the method is new, the website is the best resource for understanding the principals. Some of the core ideas are based on Plumlee and coauthors' work on analysis of grid-structured  experiments described in Plumlee (2014) &lt;doi:10.1080/01621459.2014.900250&gt; and  Plumlee, Erickson, Ankenman, Lawrence (2021) &lt;doi:10.1093/biomet/asaa084&gt;.  Some additional textbooks for additional information on Gaussian processesare Rasmussen and Williams (2005) &lt;doi:10.7551/mitpress/3206.001.0001&gt; and  Gramacy (2022) &lt;doi:10.1201/9780367815493&gt;.">
+<meta property="og:description" content="High-dimensional regression using outer product models.  Research on the methods is currently under investigation and published resources will be posted as they are available.  As the method is new, the website is the best resource for understanding the principals. Some of the core ideas are based on Plumlee and coauthors' work on analysis of grid-structured  experiments described in Plumlee (2014) &lt;doi:10.1080/01621459.2014.900250&gt; and  Plumlee, Erickson, Ankenman, Lawrence (2021) &lt;doi:10.1093/biomet/asaa084&gt;.  Some additional textbooks for additional information on Gaussian processes are Rasmussen and Williams (2005) &lt;doi:10.7551/mitpress/3206.001.0001&gt; and  Gramacy (2022) &lt;doi:10.1201/9780367815493&gt;.">
 <!-- mathjax --><script src="https://cdnjs.cloudflare.com/ajax/libs/mathjax/2.7.5/MathJax.js" integrity="sha256-nvJJv9wWKEm88qvoQl9ekL2J+k/RWIsaSScxxlsrv8k=" crossorigin="anonymous"></script><script src="https://cdnjs.cloudflare.com/ajax/libs/mathjax/2.7.5/config/TeX-AMS-MML_HTMLorMML.js" integrity="sha256-84DKXVJXs0/F8OTMzX4UR909+jtl4G7SPypPavF+GfA=" crossorigin="anonymous"></script><!--[if lt IE 9]>
 <script src="https://oss.maxcdn.com/html5shiv/3.7.3/html5shiv.min.js"></script>
 <script src="https://oss.maxcdn.com/respond/1.4.2/respond.min.js"></script>

diff --git a/articles/speed.html b/articles/speed.html
@@ -165,7 +165,7 @@
 <span class="va">yhat_slow</span> <span class="op">=</span> <span class="fu"><a href="https://rdrr.io/r/base/vector.html" class="external-link">as.vector</a></span><span class="op">(</span><span class="va">pred_slow</span><span class="op">$</span><span class="fu">mean</span><span class="op">(</span><span class="op">)</span><span class="op">)</span>
 <span class="fu"><a href="https://rdrr.io/r/base/print.html" class="external-link">print</a></span><span class="op">(</span><span class="va">t_slow</span><span class="op">)</span>
 <span class="co">#&gt;    user  system elapsed </span>
-<span class="co">#&gt;  21.592   0.016  20.809</span></code></pre></div>
+<span class="co">#&gt;  23.147   0.016  22.301</span></code></pre></div>
 <div class="sourceCode" id="cb15"><pre class="downlit sourceCode r">
 <code class="sourceCode R"><span class="va">ptm</span> <span class="op">=</span> <span class="fu"><a href="https://rdrr.io/r/base/proc.time.html" class="external-link">proc.time</a></span><span class="op">(</span><span class="op">)</span>
 <span class="va">opth</span> <span class="op">=</span> <span class="fu"><a href="../reference/BFGS_lpdf.html">BFGS_lpdf</a></span><span class="op">(</span><span class="va">om</span>, <span class="va">logpdf_fast</span>, 
@@ -176,7 +176,7 @@
 <span class="va">yhat_fast</span> <span class="op">=</span> <span class="fu"><a href="https://rdrr.io/r/base/vector.html" class="external-link">as.vector</a></span><span class="op">(</span><span class="va">pred_fast</span><span class="op">$</span><span class="fu">mean</span><span class="op">(</span><span class="op">)</span><span class="op">)</span>
 <span class="fu"><a href="https://rdrr.io/r/base/print.html" class="external-link">print</a></span><span class="op">(</span><span class="va">t_fast</span><span class="op">)</span>
 <span class="co">#&gt;    user  system elapsed </span>
-<span class="co">#&gt;   1.851   0.108   1.179</span></code></pre></div>
+<span class="co">#&gt;   2.466   0.029   1.730</span></code></pre></div>
 </div>
 <div class="section level2">
 <h2 id="comparison-of-results">Comparison of results<a class="anchor" aria-label="anchor" href="#comparison-of-results"></a>

diff --git a/reference/obfit.html b/reference/obfit.html
@@ -72,7 +72,8 @@ actual object-oriented aspects of the package.</p>
   verbose <span class="op">=</span> <span class="fl">0</span>,
   covnames <span class="op">=</span> <span class="cn">NULL</span>,
   hyp <span class="op">=</span> <span class="cn">NULL</span>,
-  numberopts <span class="op">=</span> <span class="fl">2</span>
+  numberopts <span class="op">=</span> <span class="fl">2</span>,
+  nthreads <span class="op">=</span> <span class="cn">NULL</span>
 <span class="op">)</span></code></pre></div>
     </div>
 
@@ -89,10 +90,12 @@ actual object-oriented aspects of the package.</p>
 <dt>covnames</dt>
 <dd><p>a d length vector of covariance names, ignored if <code>omst</code></p></dd>
 <dt>hyp</dt>
-<dd><p>initial covariance hyperparmaeters</p></dd>
+<dd><p>initial covariance hyperparameters</p></dd>
 <dt>numberopts</dt>
 <dd><p>number of optimizations done for hyperparameters, must be
-larger than 1
+larger than 1</p></dd>
+<dt>nthreads</dt>
+<dd><p>number of threads used in learning
 is provided</p></dd>
 </dl></div>
     <div class="section level2">
